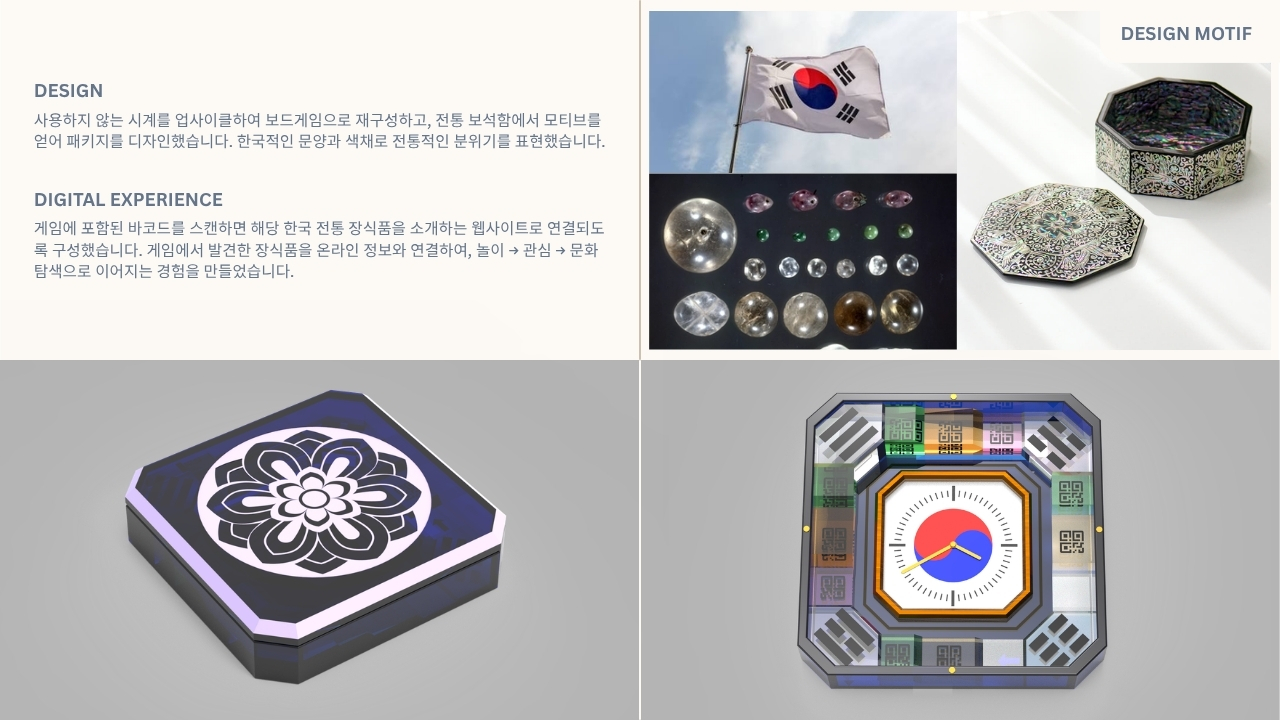
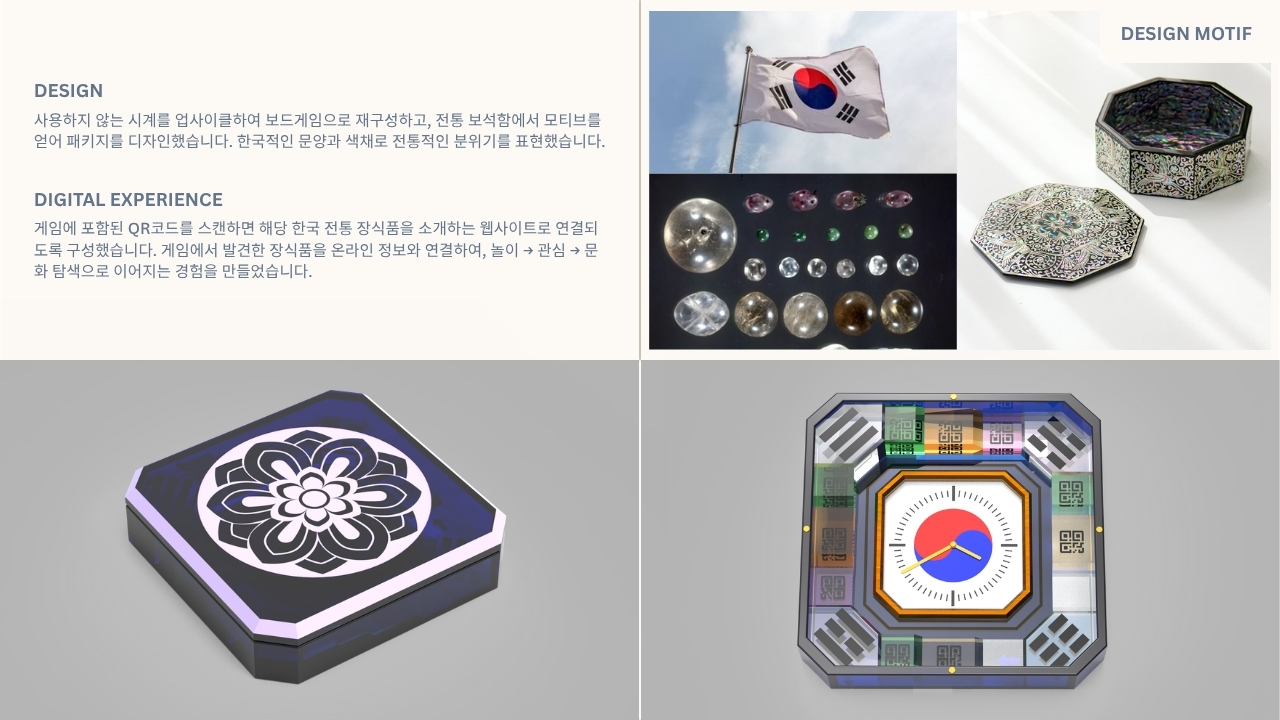
Add files via upload

Changed region(s): [[0.0312, 0.3056, 0.4688, 0.3972]]

diff --git a/script.js b/script.js
@@ -1,5 +1,5 @@
 const projects = [
-  { title: '가라앉다', highlight: '영상콘텐츠 디자인 입선', subtitle: '영상 · 2026', type: '', pages: [], details: [['제작자', '김호연'], ['제작 기간', '2026. 04. 06. – 2026. 06. 23.'], ['핵심 타겟', '청소년층'], ['영상 형식', '튜토리얼'], ['플랫폼', '유튜브']], video: { src: 'sinking-ai-film.mp4', poster: 'sinking-film-poster.png', caption: 'AI 광고 영상 — 가라앉다 (약 1분)' }, description: '악의가 담긴 한마디가 사람을 더욱 끔찍한 죽음으로 몰아갈 수 있다는 점을 보여주기 위해 기획했습니다. 청소년을 주요 대상으로, 말의 무게와 상처를 영상으로 전달합니다.', message: '악의가 담긴 한마디들이 사람을 더욱 끔찍하게 죽인다.' },
+  { title: '가라앉다', highlight: '영상콘텐츠 디자인 입선', subtitle: '영상 · 2026', type: '', pages: [], details: [['제작자', '김호연'], ['제작 기간', '2026. 04. 06. – 2026. 06. 23.'], ['핵심 타겟', '청소년층'], ['영상 형식', '캠페인 영상'], ['플랫폼', '유튜브']], video: { src: 'sinking-ai-film.mp4', poster: 'sinking-film-poster.png', caption: 'AI 광고 영상 — 가라앉다 (약 1분)' }, description: '악의가 담긴 한마디가 사람을 더욱 끔찍한 죽음으로 몰아갈 수 있다는 점을 보여주기 위해 기획했습니다. 청소년을 주요 대상으로, 말의 무게와 상처를 영상으로 전달합니다.', message: '악의가 담긴 한마디들이 사람을 더욱 끔찍하게 죽인다.' },
 
   { title: 'A Gem in Korea', highlight: '대표 제품 디자인', subtitle: '전통문화 보드게임 · 2026', type: 'Rhino', pages: [9, 10, 11], captions: ['프로젝트 개요 — 전통 장식품을 만나는 보드게임', '디자인 전개 — 업사이클 시계·전통 모티프·QR 경험', '제품 설계 — 게임판·패키지 구조와 치수'], description: '음식이나 건축물을 주제로 한 보드게임과 차별화를 두기 위해 한국 전통 보석함을 소재로 정했습니다. 보석함을 어떻게 게임으로 풀어낼지 고민하던 중 영화 《쥬만지》의 게임판에서 영감을 얻어 현재의 게임판 형태로 발전시켰습니다. 쥬만지처럼 게임판의 각 칸에 QR 코드를 배치해, 플레이어가 코드를 스캔하고 해당 미션을 수행하도록 기획했습니다. 사용하지 않는 시계를 업사이클한 게임판과 전통 보석함에서 가져온 패키지 모티프를 통해 한국 전통 장식품의 이야기를 게임으로 경험하게 합니다.' },
 
